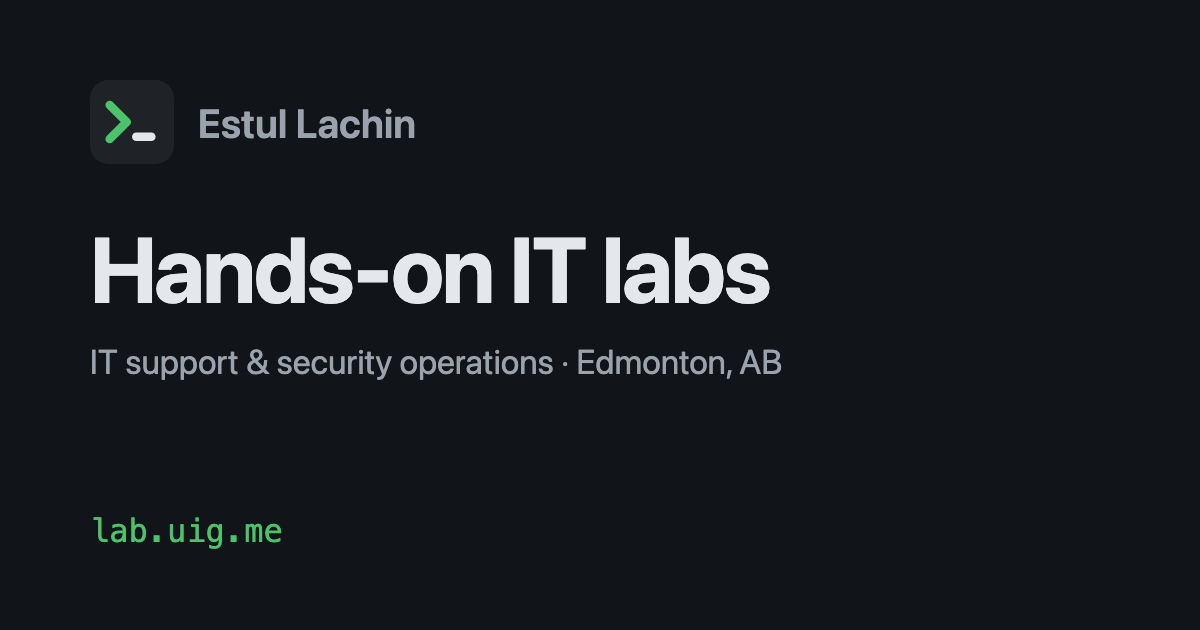
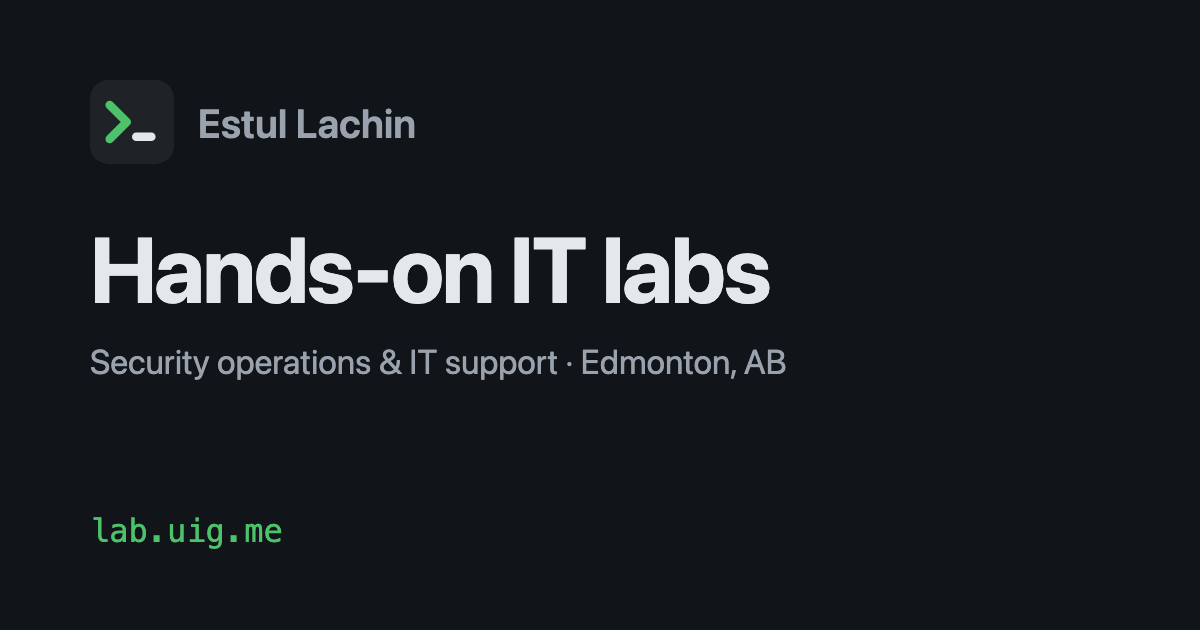
Byline: Security operations & IT support
Matches uig.me and career-facts; OG image re-rendered.

Changed region(s): [[0.0617, 0.5429, 0.6783, 0.6032]]

diff --git a/tools/assets/og-image.html b/tools/assets/og-image.html
@@ -16,6 +16,6 @@
 </style></head><body>
   <div class="top"><img src="favicon.svg" alt=""><span class="name">Estul Lachin</span></div>
   <h1>Hands-on IT labs</h1>
-  <div class="by">IT support &amp; security operations · Edmonton, AB</div>
+  <div class="by">Security operations &amp; IT support · Edmonton, AB</div>
   <div class="url">lab.uig.me</div>
 </body></html>

diff --git a/tools/build_site.py b/tools/build_site.py
@@ -33,7 +33,7 @@ CSP = ("default-src 'none'; script-src https://gc.zgo.at; style-src 'self'; "
 PROFILE_URL = "https://github.com/estul-lachin"
 LINKEDIN_URL = "https://www.linkedin.com/in/estul-lachin"
 OWNER = "Estul Lachin"
-BYLINE = "IT support & security operations · Edmonton, AB"
+BYLINE = "Security operations & IT support · Edmonton, AB"
 SITE_URL = "https://lab.uig.me"
 SITE_DESCRIPTION = ("Hands-on IT labs I have built and passed, each a resettable Docker environment "
                     "with automated checks.")
